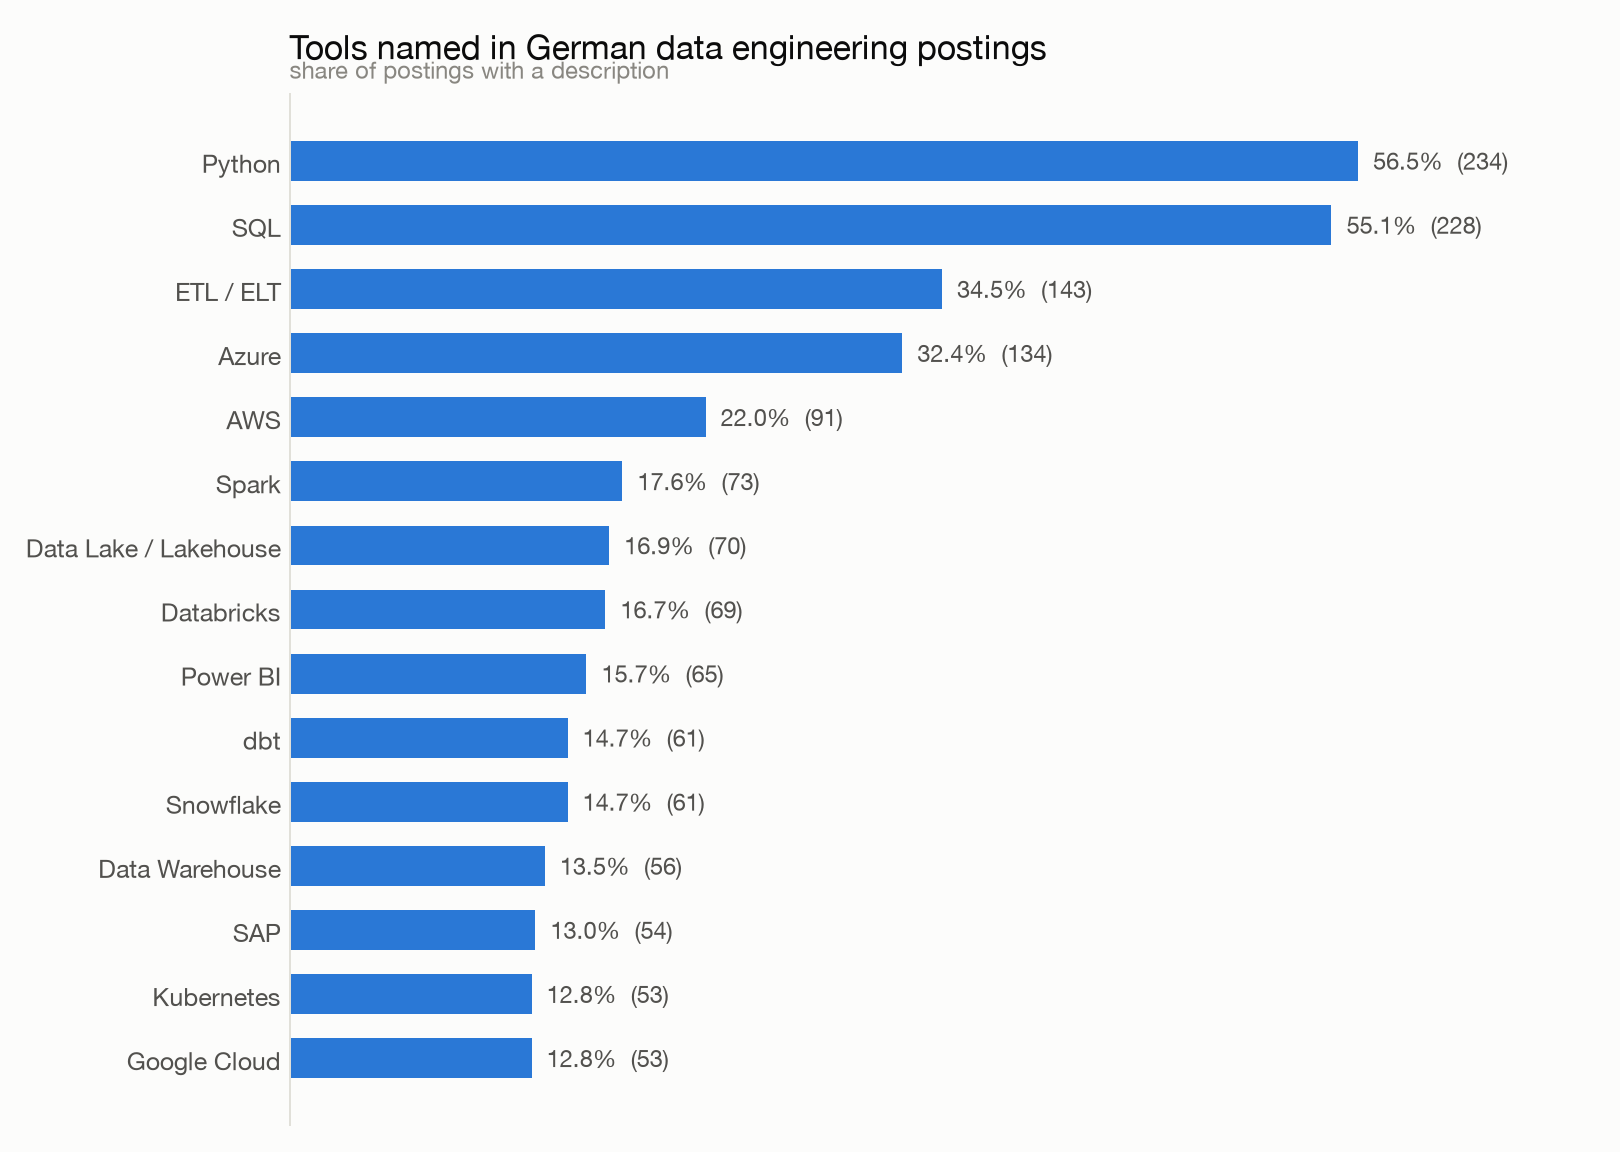
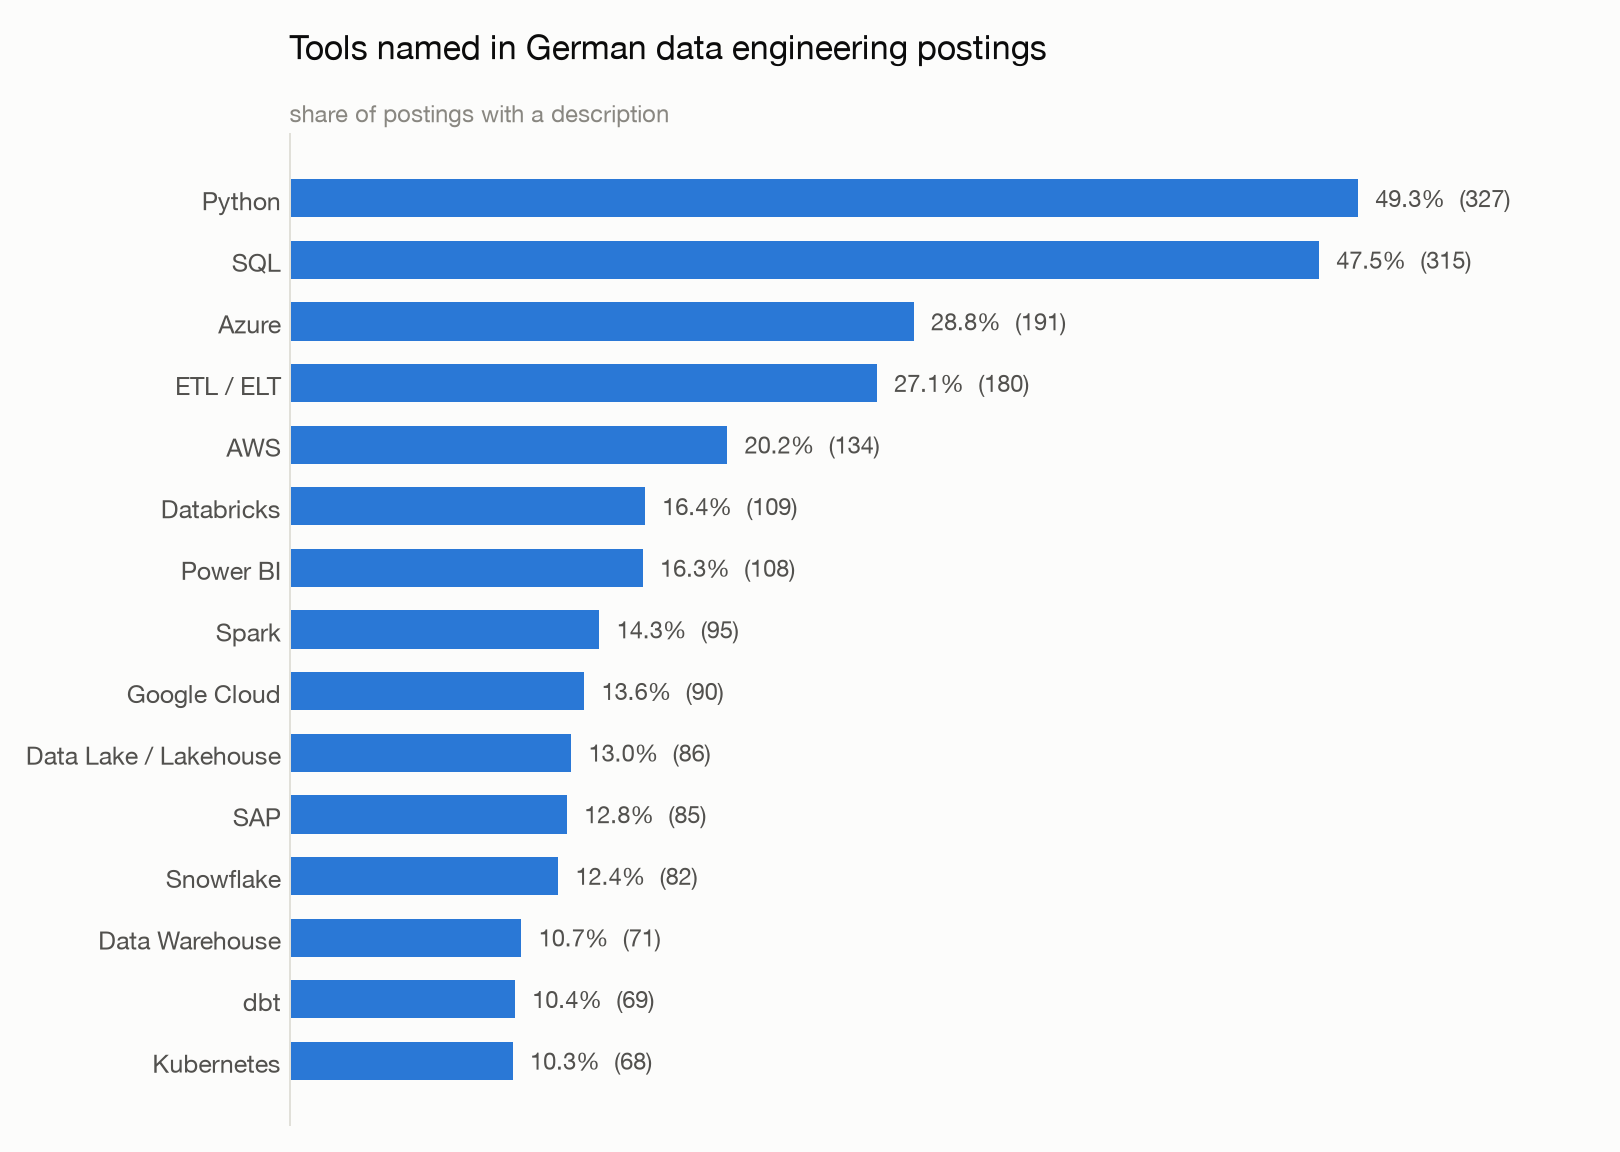
Rebuild findings on the complete sample
All 1,660 descriptions are now fetched, against 600 before. Nearly every
percentage fell: Python 56.5 -> 49.3, ETL 34.5 -> 27.1, dbt 14.7 -> 10.4.

The earlier sample was not a random third. Ids reach the detail stage in
search-term order, so --detail-limit 600 took almost only the
'data engineer' results, which are the most tool-dense in the set. A
parameter that looked like a throttle was a sampling decision, and
nothing downstream could have flagged it: the pipeline ran green and
produced confident wrong percentages.

What survived is the more useful result. Azure held a ~1.4x lead over
AWS across both samples and Databricks moved 0.3 points, so ratios
between tools were robust where absolute percentages were not. The
README now leads with the ratio and says so.

Also surfaced: SAP at 12.8% and Power BI at 16.3%, the latter above
Spark, dbt and Airflow. That shape is specific to this market and is the
clearest argument for measuring Germany rather than reusing a US dataset.

The salary section is removed rather than updated -- republishing a band
computed on the biased sample inside a document that now claims a
complete one would carry the error forward.

Changed region(s): [[0.0, 0.0312, 0.9259, 0.9375], [0.0617, 0.9062, 0.1852, 0.9375]]

diff --git a/README.md b/README.md
@@ -11,27 +11,34 @@ job database, parsed, and counted.
 
 ## Findings
 
-First pass: 662 postings after scope filtering and deduplication, 414 of them
-carrying a description long enough to read requirements from. Numbers below are
-a snapshot, not a settled answer — see [Caveats](#caveats).
+669 postings after scope filtering and deduplication, 663 of them carrying a
+description long enough to read requirements from. Numbers below are a
+snapshot — see [Caveats](#caveats).
 
 ### Which tools the market asks for
 
 ![Tools named in German data engineering postings](analysis/charts/skill_frequency.png)
 
-Python (56.5%) and SQL (55.1%) are the floor, as expected. The interesting part
-is the cloud split:
+Python (49.3%) and SQL (47.5%) are the floor. The cloud split is the part worth
+reading closely:
 
 | | share of postings |
 | --- | --- |
-| Azure | **32.4%** |
-| AWS | 22.0% |
-| Google Cloud | 12.8% |
+| Azure | **28.8%** |
+| AWS | 20.2% |
+| Google Cloud | 13.6% |
 
-Azure appears roughly one and a half times as often as AWS, and Google Cloud
-trails both — consistent with DACH enterprises being Microsoft shops before
-they are cloud shops. Databricks (16.7%) sits ahead of both dbt and Snowflake
-(14.7% each), and Spark's 17.6% largely travels with it.
+Azure leads AWS by roughly **1.4×**. That ratio is the finding, not the
+absolute percentages: an earlier run over a third of this sample produced
+32.4% / 22.0% / 12.8% — different numbers, the same 1.4× gap. Databricks was
+similarly stable across both runs (16.7% then 16.4%).
+
+Two results look distinctly German. **SAP appears in 12.8%** of postings, and
+**Power BI in 16.3%** — ranking above Spark, dbt and Airflow. A US-based
+dataset would not produce that shape. It suggests a large share of what
+Germany labels "data engineering" is Microsoft-stack BI work sitting close to
+SAP systems, which is a different job from the one the title implies
+elsewhere.
 
 Read the percentages as a share of all postings, not as market share between
 clouds: most postings name no cloud at all, so among those that do, Azure's
@@ -41,34 +48,27 @@ lead is wider than the table suggests.
 
 ![How much of the market is gated on German](analysis/charts/language_requirement.png)
 
-44.3% of federal postings state an explicit German-language requirement. 29.5%
-of all postings mention English without stating a German requirement.
+**41.0%** of federal postings state an explicit German-language requirement.
+**215 of 663 postings (32.4%)** mention English without stating one.
 
-The two sources disagree sharply and both numbers are worth distrusting on
-their own: the federal database is the whole German market, while Arbeitnow is
-a self-selected set of internationally-oriented employers. Neither is
-representative alone.
-
-### What the roles advertise
-
-Median advertised salary clusters at **€65,000–80,000**. Per-tool differences
-in `mart_salary_by_skill` are not meaningful at these sample sizes — between
-four and twenty-one postings per tool — and the table reports its sample size
-beside every figure for exactly that reason.
-
-Fewer than one posting in five states a salary at all, and those that do skew
-public sector and large employers.
+The two sources disagree sharply and neither is representative alone: the
+federal database is the whole German market, while Arbeitnow is a self-selected
+set of internationally-oriented employers.
 
 ### Caveats
 
-- **Description coverage is 600 of 1,660 postings.** Skill counts describe
-  roughly a third of what was collected.
 - **The German figure is a floor.** Only explicit competency phrases are
   counted. A posting written in German that states no requirement but expects
-  German is invisible to this measure, and there are certainly many.
+  German is invisible to this measure, and there are many.
+- **Percentages moved by 3–7 points between runs.** An earlier, smaller sample
+  was not a random subset — it was the first *n* postings in search order,
+  which over-weighted the most tool-dense search term. Directions held;
+  magnitudes did not. Treat single-point percentages as approximate.
 - **Deduplication is approximate.** No shared identifier exists across sources,
-  so the key is employer plus title.
-- **One snapshot, one day.** Nothing here says anything about a trend yet.
+  so the key is employer plus title. 1,660 unique federal postings reduce to
+  669 after the role filter and deduplication together, and that split has not
+  been measured.
+- **One snapshot.** Two run dates are now stored, which is not yet a trend.
 
 ## Why this project
 
